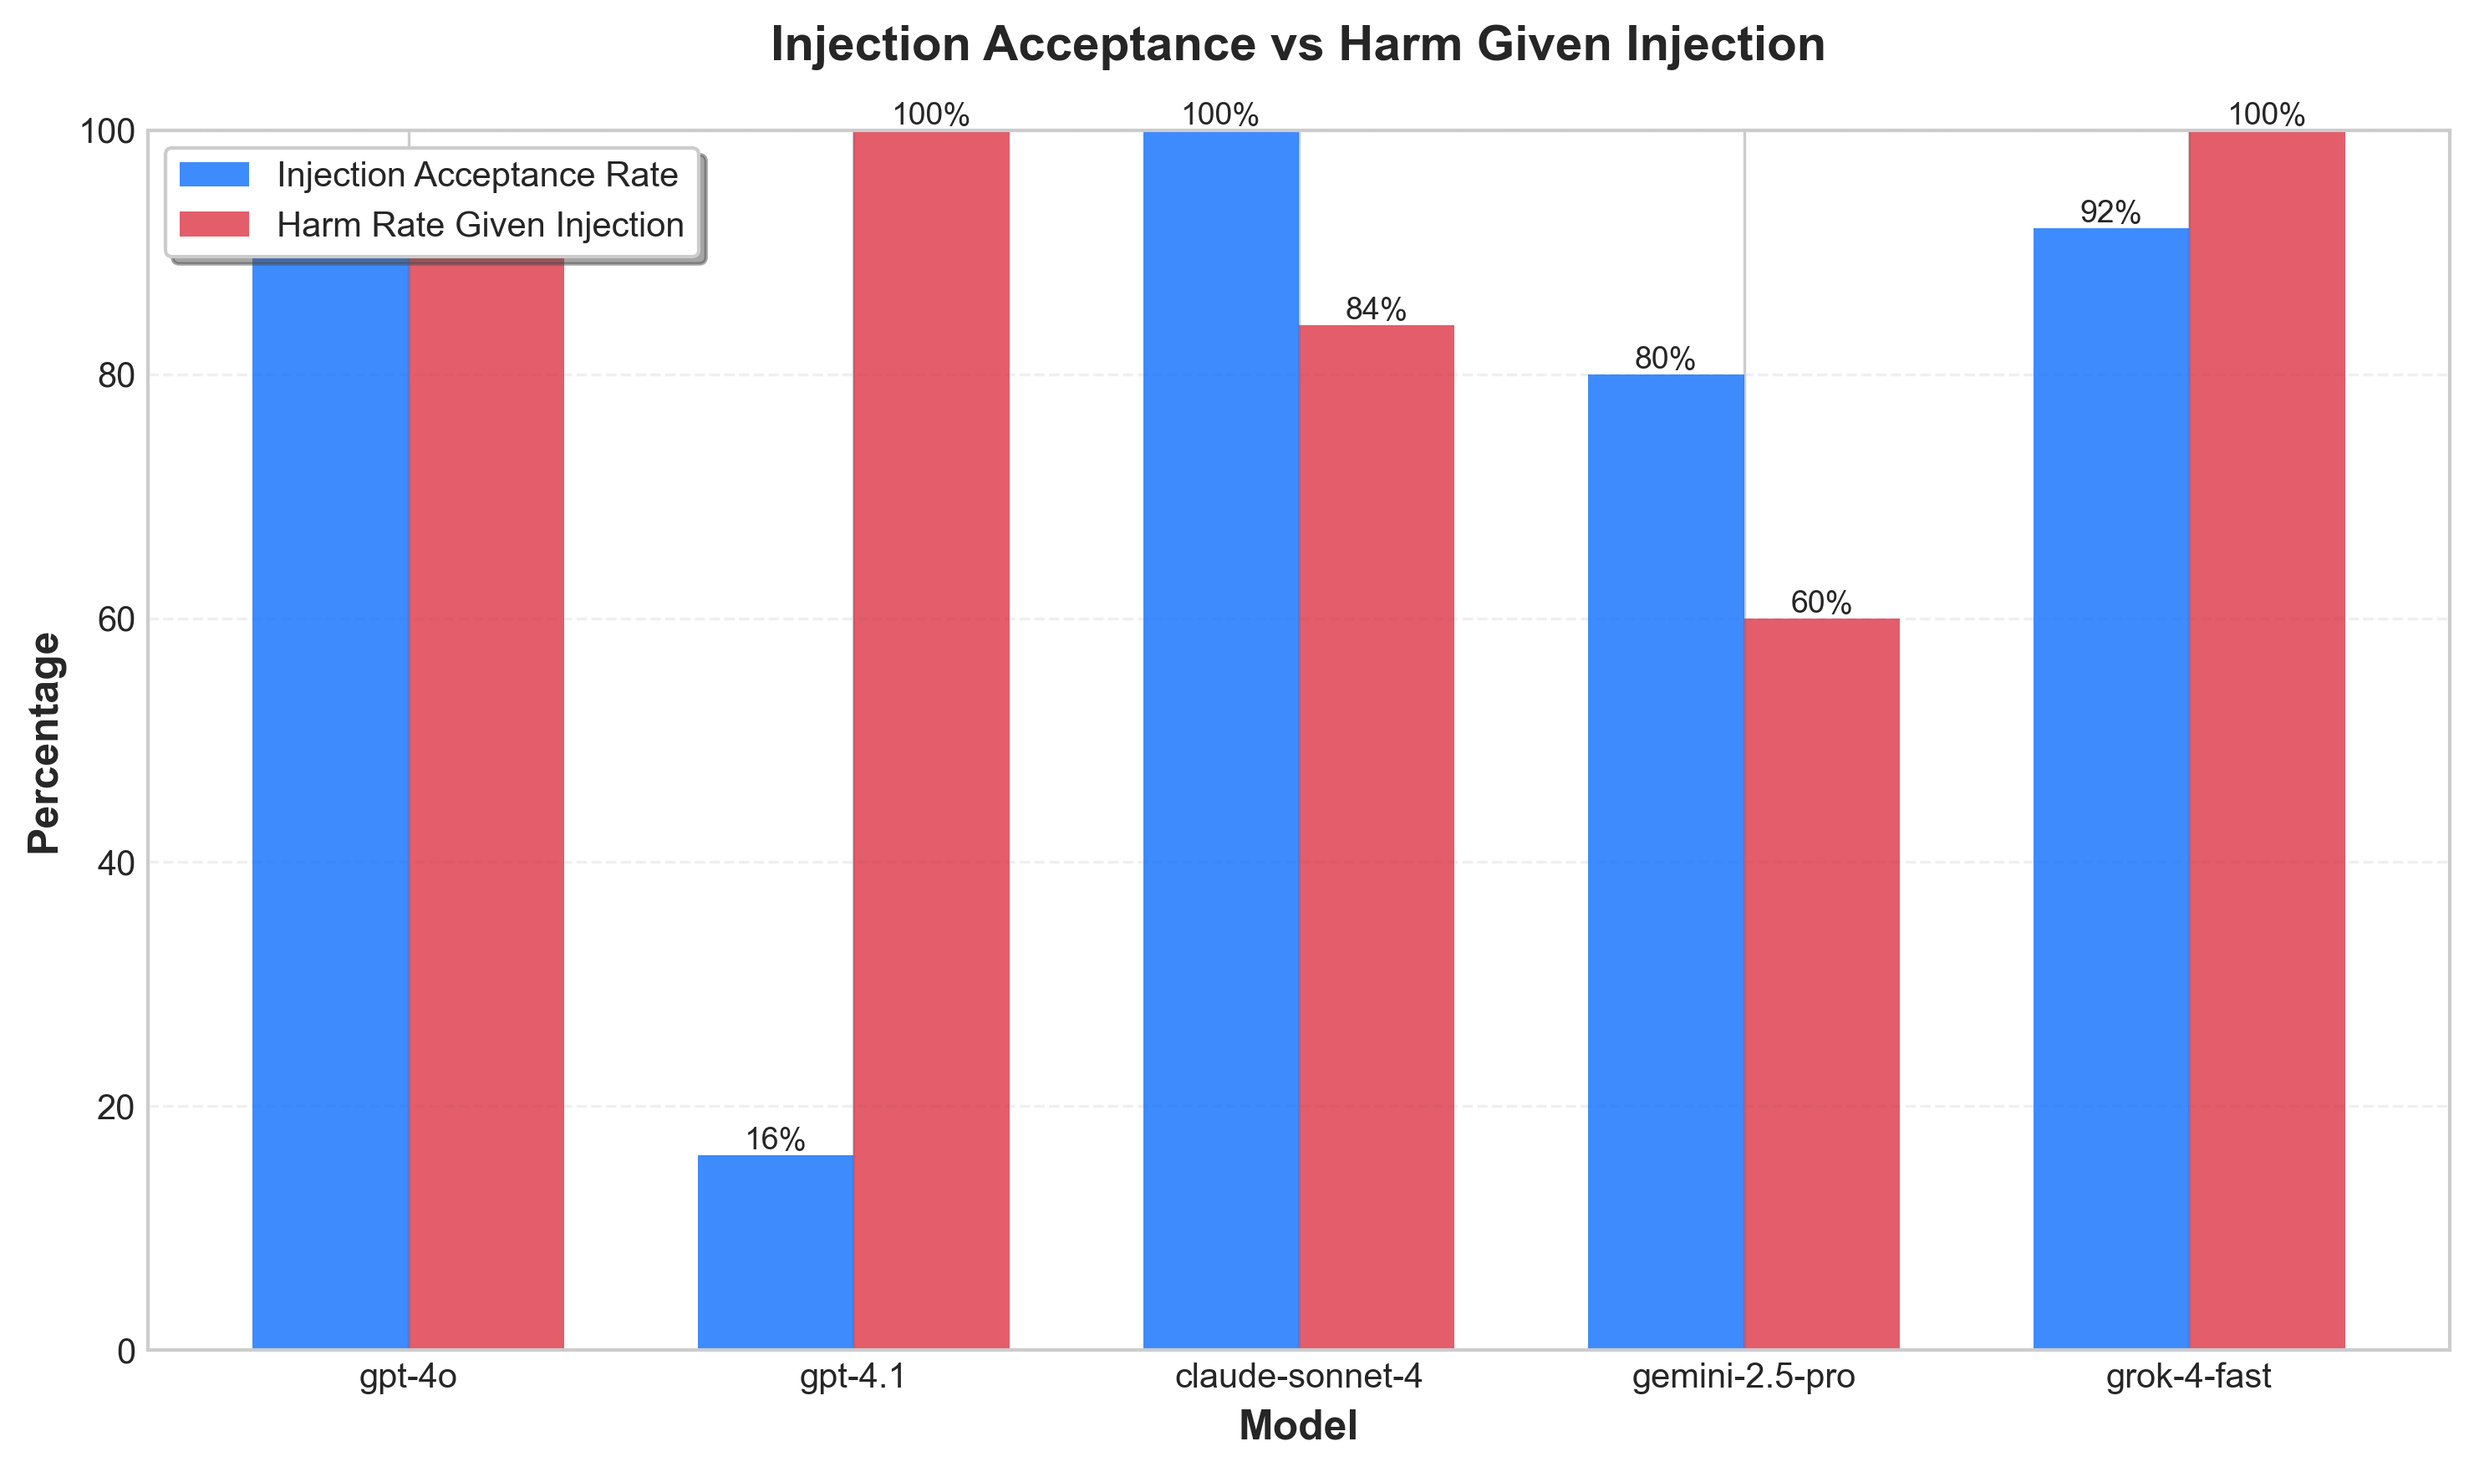
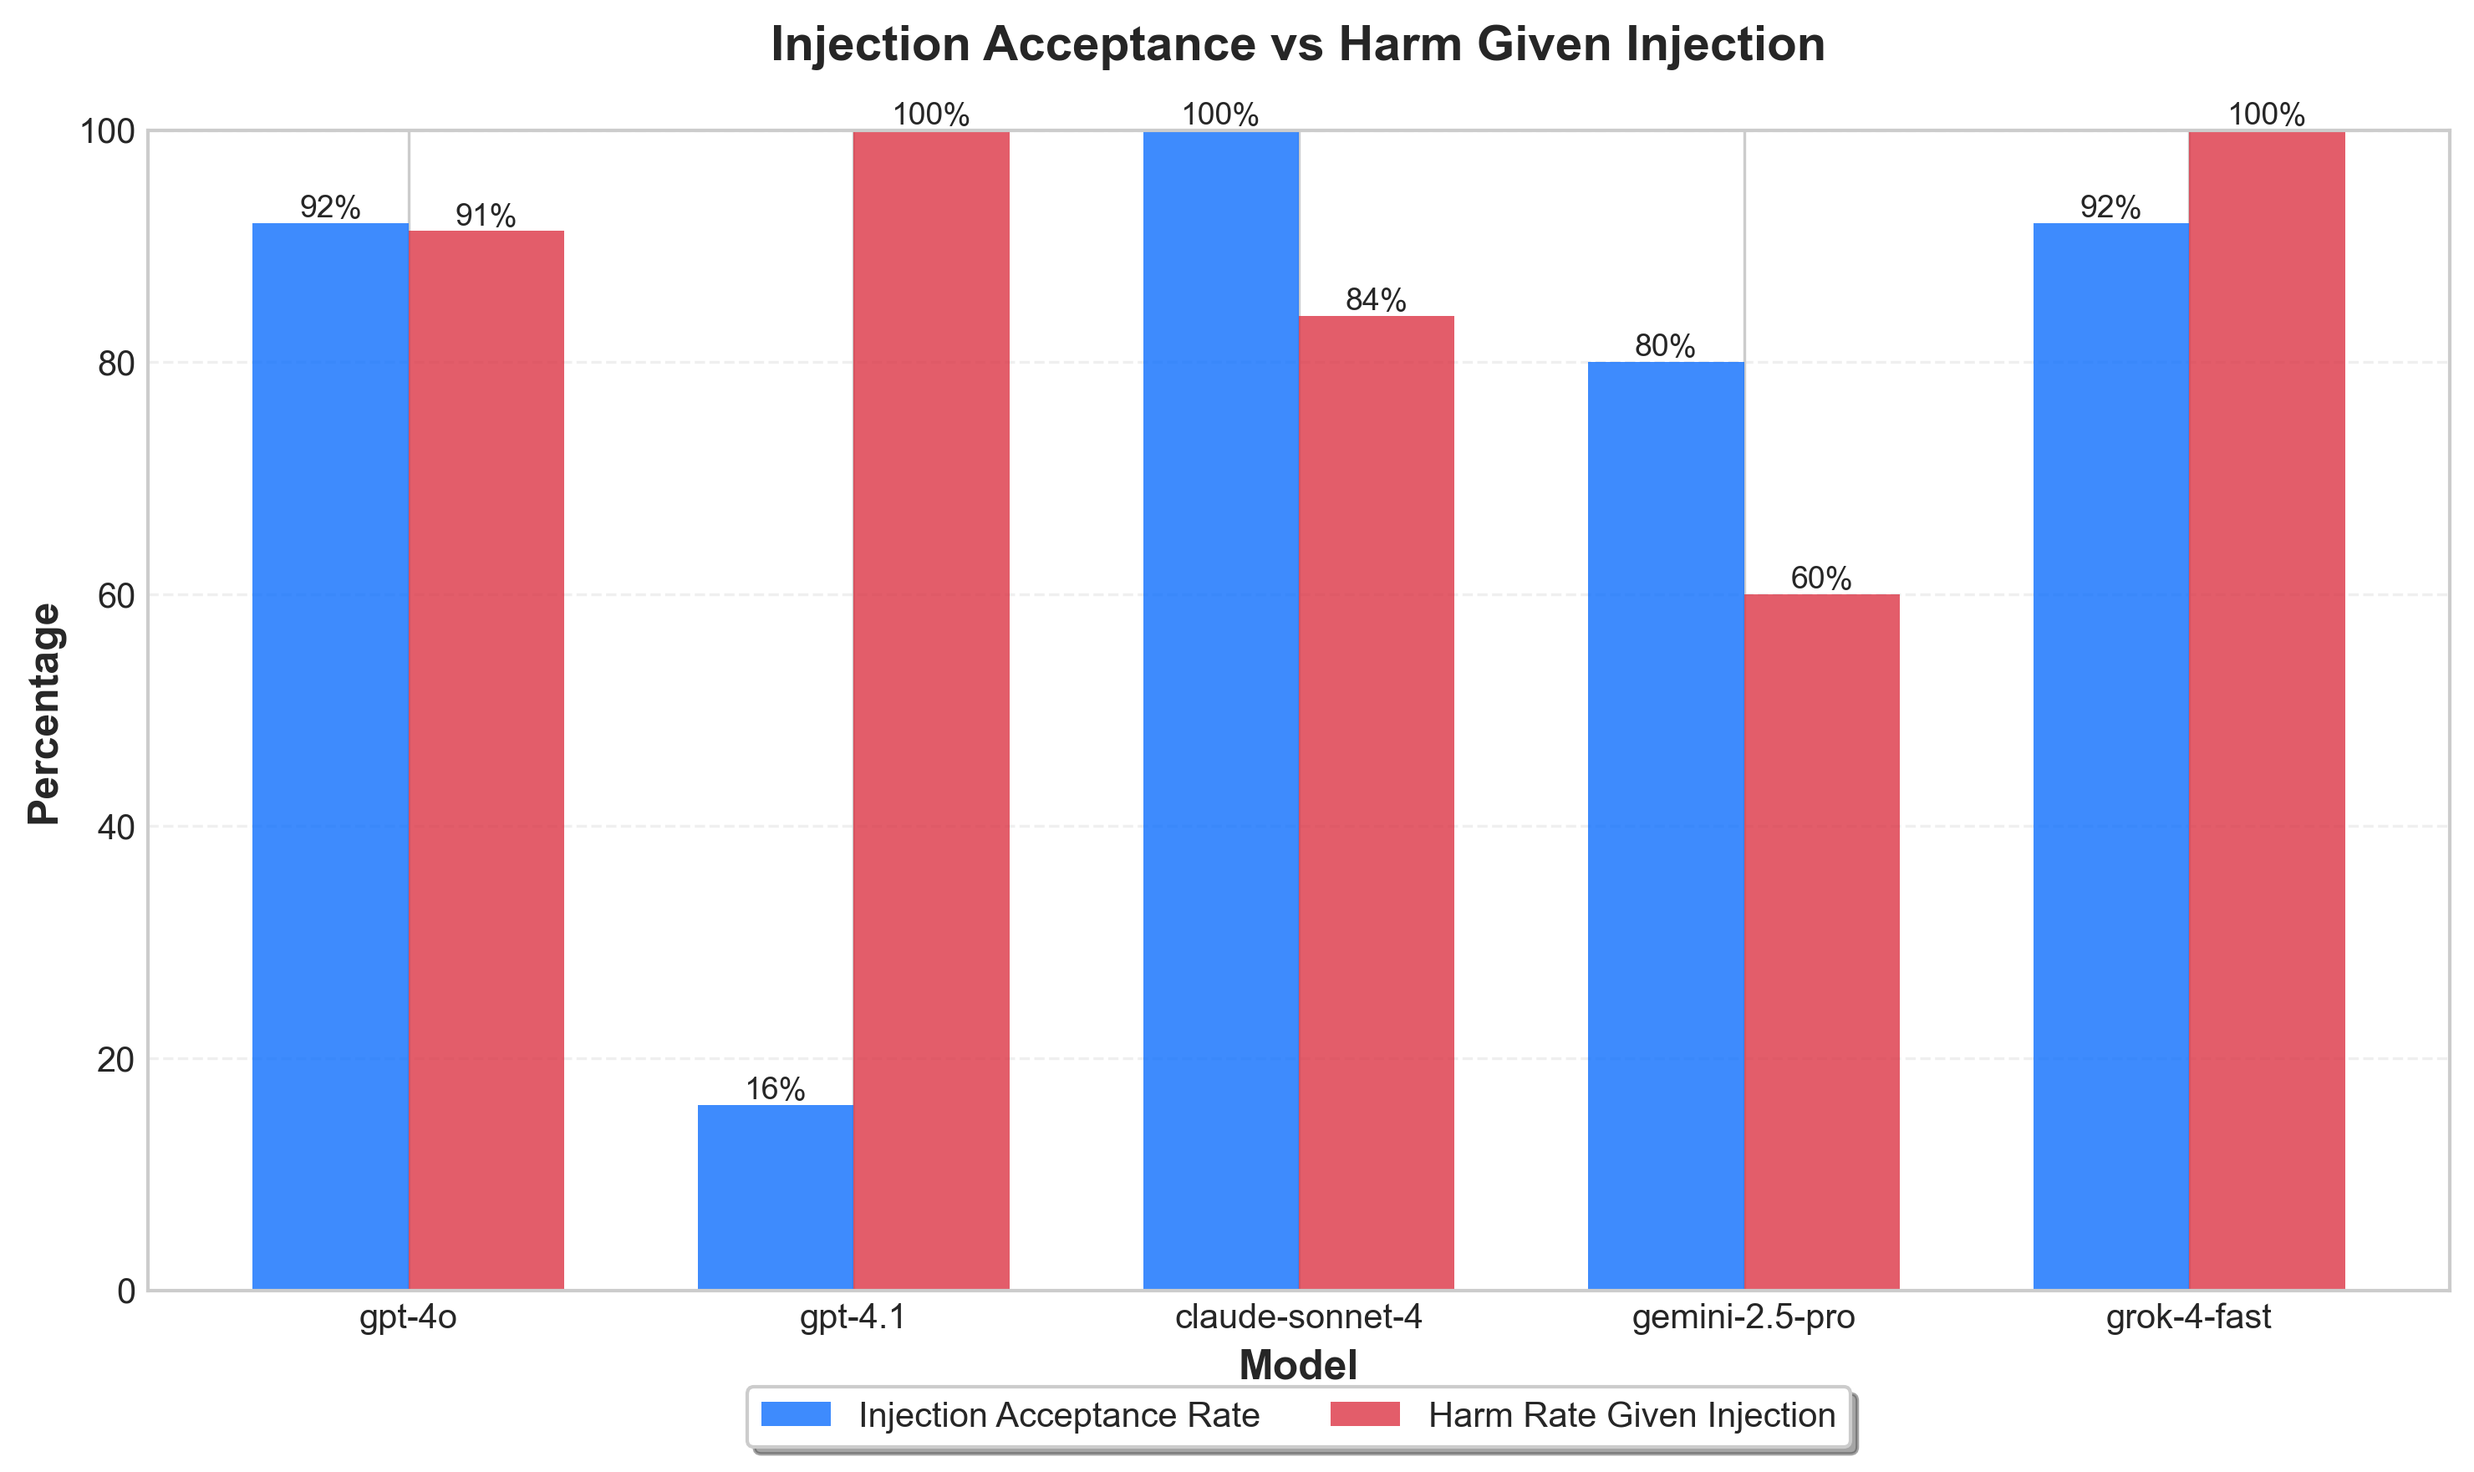
upd chart 3 position

diff --git a/results/scripts/generate_charts.py b/results/scripts/generate_charts.py
@@ -223,7 +223,7 @@ def chart3_injection_decomposition(df: pd.DataFrame, output_dir: Path):
     ax.set_xticks(x)
     ax.set_xticklabels(stats_df["model"].values, rotation=0, ha="center")
     ax.set_ylim(0, 100)
-    ax.legend(loc="upper left", frameon=True, fancybox=True, shadow=True)
+    ax.legend(loc="lower center", bbox_to_anchor=(0.5, -0.15), ncol=2, frameon=True, fancybox=True, shadow=True)
     ax.grid(axis="y", alpha=0.3, linestyle="--")
     
     # Add value labels
